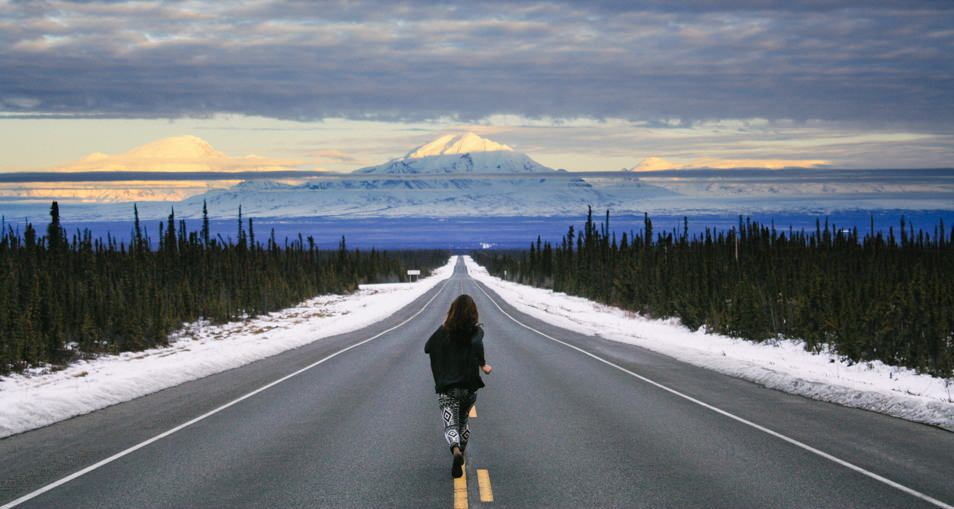
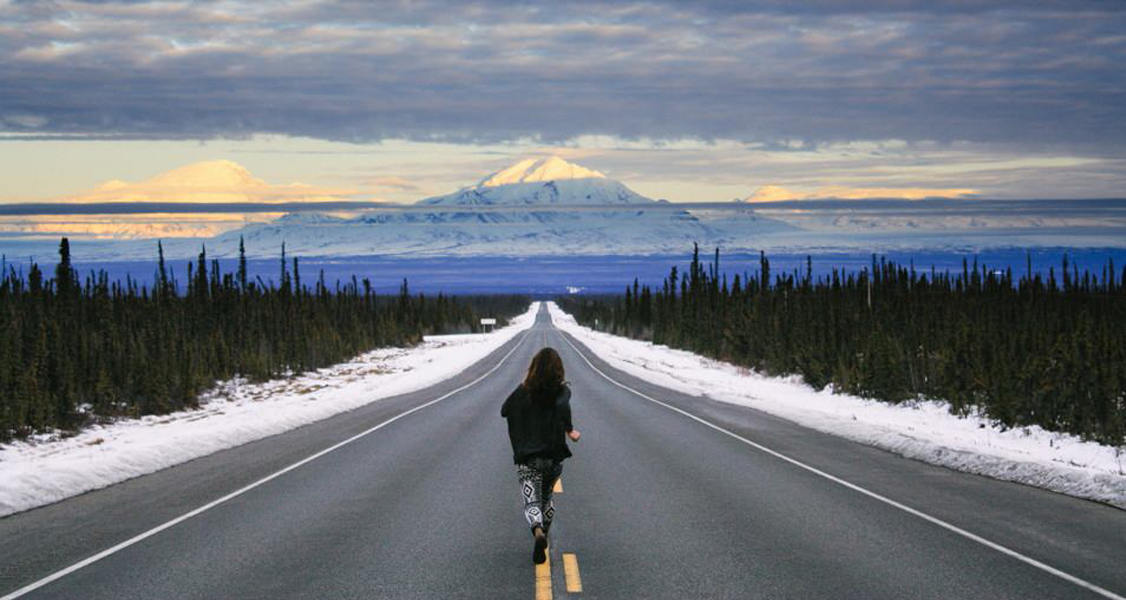
Finalisation

diff --git a/web/css/base.css b/web/css/base.css
@@ -18,9 +18,9 @@ body{
 }
 
 hgroup {
-    background-image: url("../images/alaska-road2.jpg");
+    background-image: url("../images/alaska-road.jpg");
     background-repeat: no-repeat;
-    /*opacity: 0.5;*/
+    height: 300px;
 }
 
 hgroup h3 a {
@@ -100,11 +100,13 @@ span.highlight { color: #F48A00; }
         width: 750px;
     }
 }
+
 @media (min-width: 992px) {
     .container {
         width: 970px;
     }
 }
+
 @media (min-width: 1200px) {
     .container {
         width: 1170px;
@@ -139,7 +141,7 @@ span.highlight { color: #F48A00; }
 
 
 a:hover {
-    text-decoration: none !important;;
+    text-decoration: none !important;
 }
 
 

diff --git a/src/BlogJF/BlogBundle/Form/CommentaireType.php b/src/BlogJF/BlogBundle/Form/CommentaireType.php
@@ -14,7 +14,7 @@ class CommentaireType extends AbstractType
     {
         $builder
             ->add('auteur',          TextType::class)
-            ->add('commentaire',     TextareaType::class,array('required' => false))
+            ->add('commentaire',     TextareaType::class,array('required' => true))
 
         ;
     }

diff --git a/README.md b/README.md
@@ -10,7 +10,7 @@ EXPORT de la base de données MySQL
 -- https://www.phpmyadmin.net/
 --
 -- Client :  127.0.0.1
--- Généré le :  Mer 22 Mars 2017 à 10:16
+-- Généré le :  Jeu 23 Mars 2017 à 15:55
 -- Version du serveur :  5.7.14
 -- Version de PHP :  7.0.10
 
@@ -83,12 +83,12 @@ ALTER TABLE `commentaire`
 -- AUTO_INCREMENT pour la table `billet`
 --
 ALTER TABLE `billet`
-  MODIFY `id` int(11) NOT NULL AUTO_INCREMENT, AUTO_INCREMENT=5;
+  MODIFY `id` int(11) NOT NULL AUTO_INCREMENT, AUTO_INCREMENT=13;
 --
 -- AUTO_INCREMENT pour la table `commentaire`
 --
 ALTER TABLE `commentaire`
-  MODIFY `id` int(11) NOT NULL AUTO_INCREMENT, AUTO_INCREMENT=41;
+  MODIFY `id` int(11) NOT NULL AUTO_INCREMENT, AUTO_INCREMENT=78;
 --
 -- Contraintes pour les tables exportées
 --
@@ -97,14 +97,9 @@ ALTER TABLE `commentaire`
 -- Contraintes pour la table `commentaire`
 --
 ALTER TABLE `commentaire`
-  ADD CONSTRAINT `FK_67F068BC44973C78` FOREIGN KEY (`billet_id`) REFERENCES `billet` (`id`),
+  ADD CONSTRAINT `FK_67F068BC44973C78` FOREIGN KEY (`billet_id`) REFERENCES `billet` (`id`) ON DELETE CASCADE,
   ADD CONSTRAINT `FK_67F068BC727ACA70` FOREIGN KEY (`parent_id`) REFERENCES `commentaire` (`id`) ON DELETE CASCADE;
 
 /*!40101 SET CHARACTER_SET_CLIENT=@OLD_CHARACTER_SET_CLIENT */;
 /*!40101 SET CHARACTER_SET_RESULTS=@OLD_CHARACTER_SET_RESULTS */;
 /*!40101 SET COLLATION_CONNECTION=@OLD_COLLATION_CONNECTION */;
-
-/*!40101 SET CHARACTER_SET_CLIENT=@OLD_CHARACTER_SET_CLIENT */;
-/*!40101 SET CHARACTER_SET_RESULTS=@OLD_CHARACTER_SET_RESULTS */;
-/*!40101 SET COLLATION_CONNECTION=@OLD_COLLATION_CONNECTION */;
-
